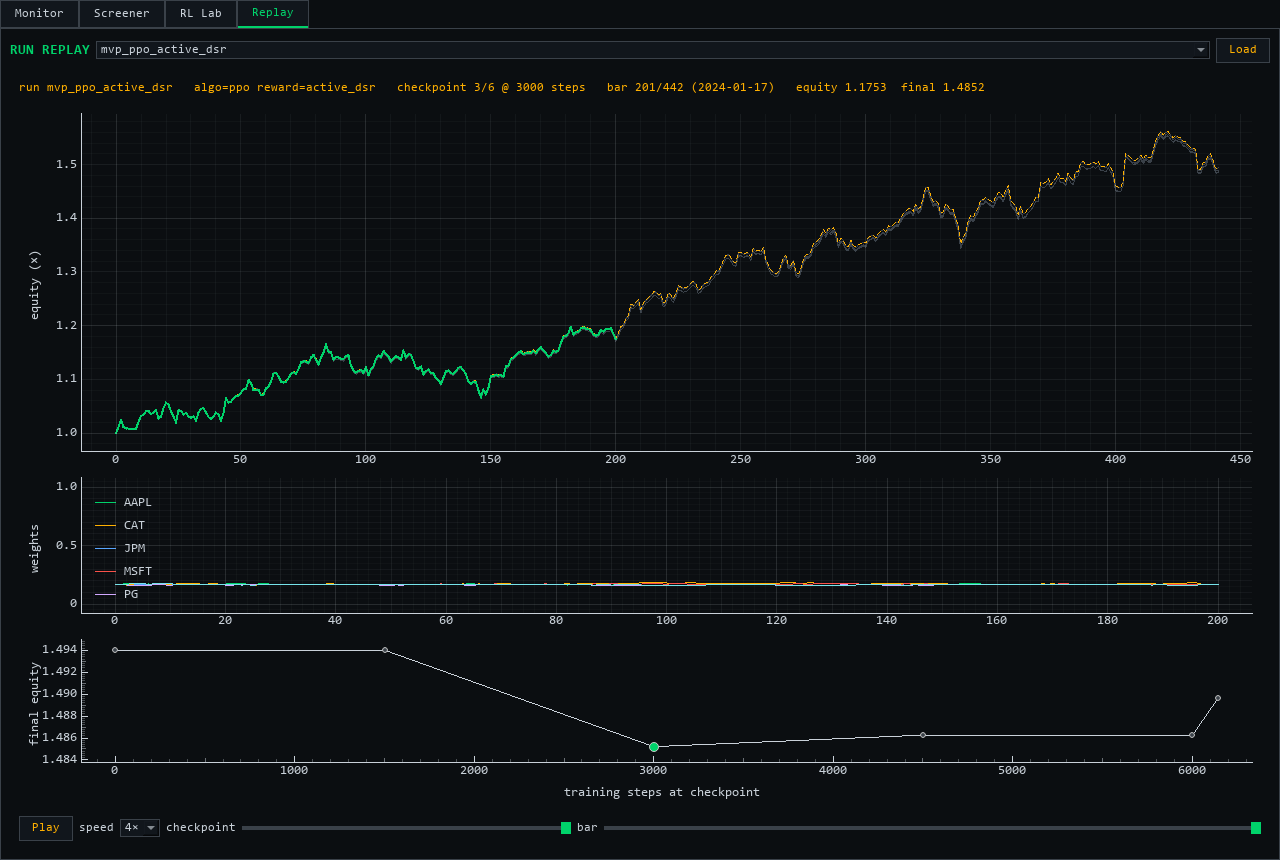
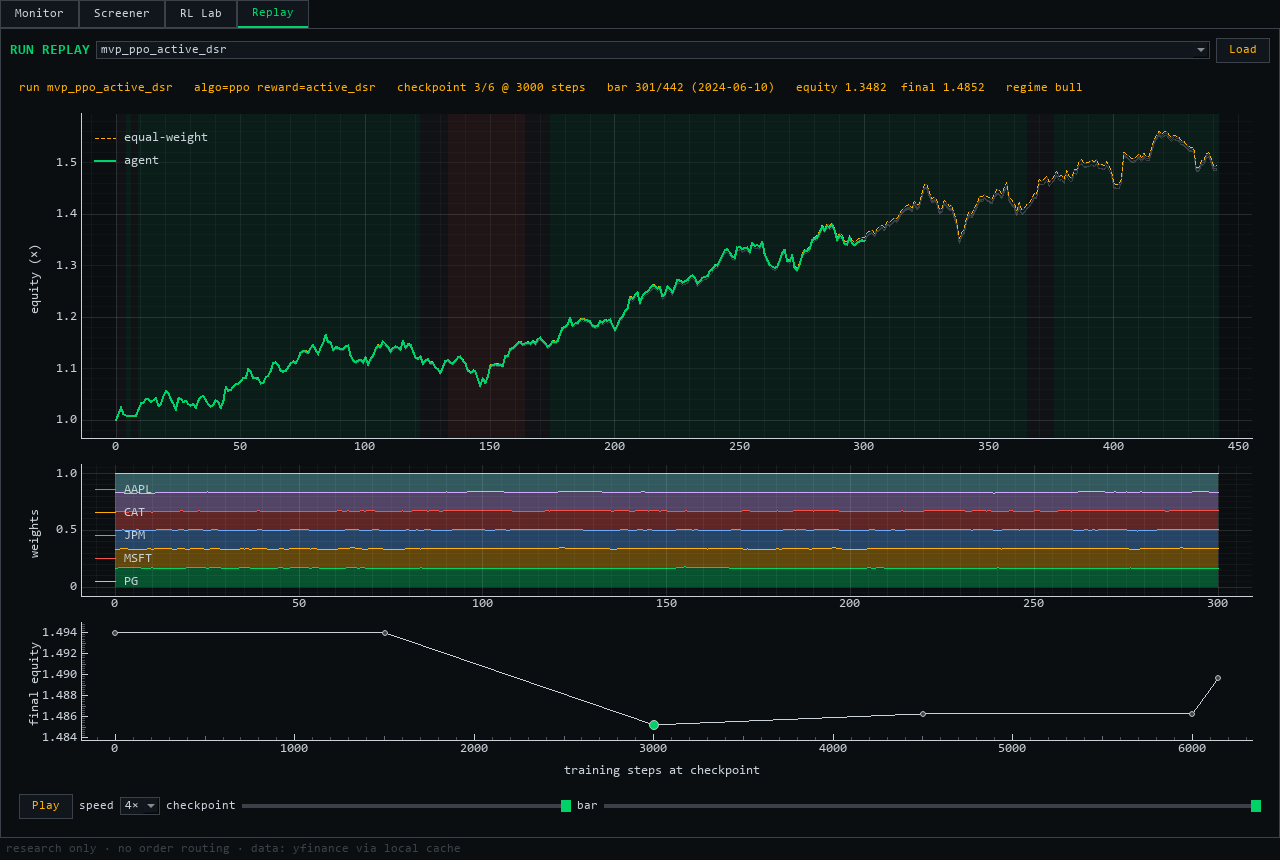
Vision UI upgrades: stacked weights + regime shading in replay, sortable screener, monitor auto-refresh
- Replay: weights pane is now a stacked-area simplex (FillBetweenItem
  bands per asset; weight_stack helper tested); causal bull/bear/choppy
  regime spans shade the equity pane background (regime_spans helper
  tested) and the cursor's regime shows in the info line; equity legend.
- Screener tab: colour-coded QTableWidget with numeric-aware sorting
  (click headers), initial sort by 20d return; projections + messages in
  the log pane below.
- Monitor: optional 5-minute auto-refresh (forced refetch so today's bar
  updates intraday), refresh timestamp in the status line.
- Shell: status bar 'research only · no order routing'.
- Suite 95 green; replay + screener screenshots refreshed in docs/.

diff --git a/gym/vision.py b/gym/vision.py
@@ -134,10 +134,16 @@ class MonitorTab(QtWidgets.QWidget):
         top.addStretch(1)
         self.status = QtWidgets.QLabel("")
         top.addWidget(self.status)
+        self.auto = QtWidgets.QCheckBox("auto 5m")
+        self.auto.toggled.connect(self._toggle_auto)
+        top.addWidget(self.auto)
         btn = QtWidgets.QPushButton("Refresh")
-        btn.clicked.connect(self.refresh)
+        btn.clicked.connect(lambda: self.refresh(force=False))
         top.addWidget(btn)
         lay.addLayout(top)
+        self.timer = QtCore.QTimer(self)
+        self.timer.setInterval(300_000)                      # 5 minutes
+        self.timer.timeout.connect(lambda: self.refresh(force=True))
 
         split = QtWidgets.QHBoxLayout()
         lay.addLayout(split, stretch=1)
@@ -158,7 +164,12 @@ class MonitorTab(QtWidgets.QWidget):
         self.heat_plot.addItem(self.img)
         right.addWidget(self.heat, stretch=1)
 
-    def refresh(self):
+    def _toggle_auto(self, on: bool):
+        self.timer.start() if on else self.timer.stop()
+        if on:
+            self.refresh(force=True)
+
+    def refresh(self, force: bool = False):
         positions = load_portfolio_state()
         if not positions:
             self.status.setText(f"no positions — edit {STATE_FILE.name}")
@@ -169,7 +180,8 @@ class MonitorTab(QtWidgets.QWidget):
         start = (end - pd.Timedelta(days=30)).strftime("%Y-%m-%d")
         for tic in tics:
             try:
-                c = self.md.get_ohlcv(tic, start, end.strftime("%Y-%m-%d"))["close"]
+                c = self.md.get_ohlcv(tic, start, end.strftime("%Y-%m-%d"),
+                                      force=force)["close"]
                 last[tic] = float(c.iloc[-1])
                 if len(c) > 1:
                     prev[tic] = float(c.iloc[-2])
@@ -206,11 +218,34 @@ class MonitorTab(QtWidgets.QWidget):
             ticks = [(i + 0.5, tic) for i, tic in enumerate(corr.columns)]
             self.heat_plot.getAxis("bottom").setTicks([ticks])
             self.heat_plot.getAxis("left").setTicks([ticks])
-        self.status.setText(f"{len(t['rows'])} positions · value {t['total_value']:,.0f}")
+        stamp = pd.Timestamp.now().strftime("%H:%M:%S")
+        self.status.setText(f"{len(t['rows'])} positions · value {t['total_value']:,.0f}"
+                            f" · refreshed {stamp}{' (forced)' if force else ''}")
+
+
+class _NumItem(QtWidgets.QTableWidgetItem):
+    """Table cell that sorts numerically when it holds a number (text sorts are wrong
+    for '9.5' vs '10.2'); non-numeric cells fall back to text ordering."""
+
+    def __init__(self, value, text: str | None = None):
+        super().__init__(text if text is not None else str(value))
+        self._v = float(value) if isinstance(value, (int, float, np.floating)) \
+            and np.isfinite(value) else None
+
+    def __lt__(self, other):
+        if isinstance(other, _NumItem) and self._v is not None and other._v is not None:
+            return self._v < other._v
+        return super().__lt__(other)
 
 
 class ScreenerTab(QtWidgets.QWidget):
-    """Technical screen + quantile projections, rendered as terminal tables."""
+    """Technical screen in a sortable, colour-coded table + projections in the log pane.
+    Click any column header to sort (numeric-aware)."""
+
+    _COLS = [("tic", None), ("close", "{:.2f}"), ("trend", None), ("rsi14", "{:.1f}"),
+             ("rsi_zone", None), ("macd_side", None), ("macd_cross_age", "{:.0f}"),
+             ("bb_pct_b", "{:.2f}"), ("bb_state", None), ("atr_pct", "{:.2f}"),
+             ("vol_z", "{:.1f}"), ("ret_20d", "{:+.1f}"), ("off_52w_high", "{:+.1f}")]
 
     def __init__(self, md: MarketData | None = None, parent=None):
         super().__init__(parent)
@@ -230,6 +265,11 @@ class ScreenerTab(QtWidgets.QWidget):
         b2.clicked.connect(self.run_project)
         row.addWidget(b2)
         lay.addLayout(row)
+
+        self.table = QtWidgets.QTableWidget()
+        self.table.setEditTriggers(QtWidgets.QTableWidget.NoEditTriggers)
+        self.table.verticalHeader().setVisible(False)
+        lay.addWidget(self.table, stretch=3)
         self.out = QtWidgets.QPlainTextEdit()
         self.out.setReadOnly(True)
         lay.addWidget(self.out, stretch=1)
@@ -237,12 +277,49 @@ class ScreenerTab(QtWidgets.QWidget):
     def _tics(self):
         return [t for t in self.edit.text().replace(",", " ").split() if t]
 
+    @staticmethod
+    def _cell_color(col: str, value, text: str) -> str | None:
+        if col == "trend":
+            return {"up": GREEN, "down": RED, "mixed": AMBER}.get(text)
+        if col == "rsi_zone":
+            return {"oversold": GREEN, "overbought": RED}.get(text)
+        if col == "macd_side":
+            return {"bull": GREEN, "bear": RED}.get(text)
+        if col in ("ret_20d", "off_52w_high") and isinstance(value, (int, float)):
+            return GREEN if value > 0 else RED if value < 0 else None
+        if col == "vol_z" and isinstance(value, (int, float)) and abs(value) > 2:
+            return AMBER
+        return None
+
+    def _fill_table(self, df) -> None:
+        self.table.setSortingEnabled(False)
+        cols = [c for c, _ in self._COLS]
+        self.table.setColumnCount(len(cols))
+        self.table.setHorizontalHeaderLabels(cols)
+        self.table.setRowCount(len(df))
+        for i, (_, r) in enumerate(df.iterrows()):
+            for j, (col, fmt) in enumerate(self._COLS):
+                v = r[col]
+                if v is None or (isinstance(v, float) and not np.isfinite(v)):
+                    item = _NumItem(float("nan"), "—")
+                else:
+                    item = _NumItem(v, fmt.format(v) if fmt else str(v))
+                color = self._cell_color(col, v, str(v))
+                if color:
+                    item.setForeground(QtGui.QColor(color))
+                self.table.setItem(i, j, item)
+        self.table.setSortingEnabled(True)
+        self.table.sortItems(cols.index("ret_20d"), QtCore.Qt.DescendingOrder)
+        self.table.resizeColumnsToContents()
+
     def run_screen(self):
-        from screener import format_screen, screen
+        from screener import screen
         self.out.appendPlainText("\n$ screen " + " ".join(self._tics()))
         try:
             table = screen(self._tics(), md=self.md, log=lambda m: self.out.appendPlainText(m))
-            self.out.appendPlainText(format_screen(table))
+            self._fill_table(table)
+            self.out.appendPlainText(f"{len(table)} tickers screened "
+                                     f"(as of {table['date'].iloc[0]}) — click headers to sort")
         except Exception as e:  # noqa: BLE001
             self.out.appendPlainText(f"error: {e}")
 
@@ -310,6 +387,9 @@ class VisionWindow(QtWidgets.QMainWindow):
             err = QtWidgets.QLabel(f"RL Lab unavailable: {e}")
             tabs.addTab(err, "RL Lab")
         tabs.addTab(ReplayTab(), "Replay")
+        bar = self.statusBar()
+        bar.setStyleSheet(f"color: {GREY};")
+        bar.showMessage("research only · no order routing · data: yfinance via local cache")
         self.resize(1280, 860)
 
 

diff --git a/gym/tests/test_replay_panel.py b/gym/tests/test_replay_panel.py
@@ -57,3 +57,25 @@ def test_skill_curve_is_final_equity_per_checkpoint(rec):
     f = playback_frame(rec, 0, 0)
     np.testing.assert_allclose(f["skill"], rec.equity[:, -1])
     assert f["final_equity"] == pytest.approx(rec.equity[0, -1])
+
+
+def test_weight_stack_bounds():
+    from run_replay_panel import weight_stack
+    w = np.array([[0.2, 0.3, 0.5], [0.1, 0.6, 0.3]])
+    s = weight_stack(w)
+    assert s.shape == (2, 4)
+    np.testing.assert_allclose(s[:, 0], 0.0)                 # floor
+    np.testing.assert_allclose(s[:, -1], 1.0)                # simplex top
+    assert (np.diff(s, axis=1) >= 0).all()                   # bands never invert
+    np.testing.assert_allclose(np.diff(s, axis=1), w)        # band heights = weights
+
+
+def test_regime_spans_contiguous_runs():
+    from run_replay_panel import regime_spans
+    labels = ["choppy", "choppy", "bull", "bull", "bull", "bear"]
+    spans = regime_spans(labels)
+    assert spans == [(0, 2, "choppy"), (2, 5, "bull"), (5, 6, "bear")]
+    assert regime_spans([]) == []
+    assert regime_spans(["bull"]) == [(0, 1, "bull")]
+    # spans must tile the whole series exactly
+    assert sum(e - s for s, e, _ in spans) == len(labels)
